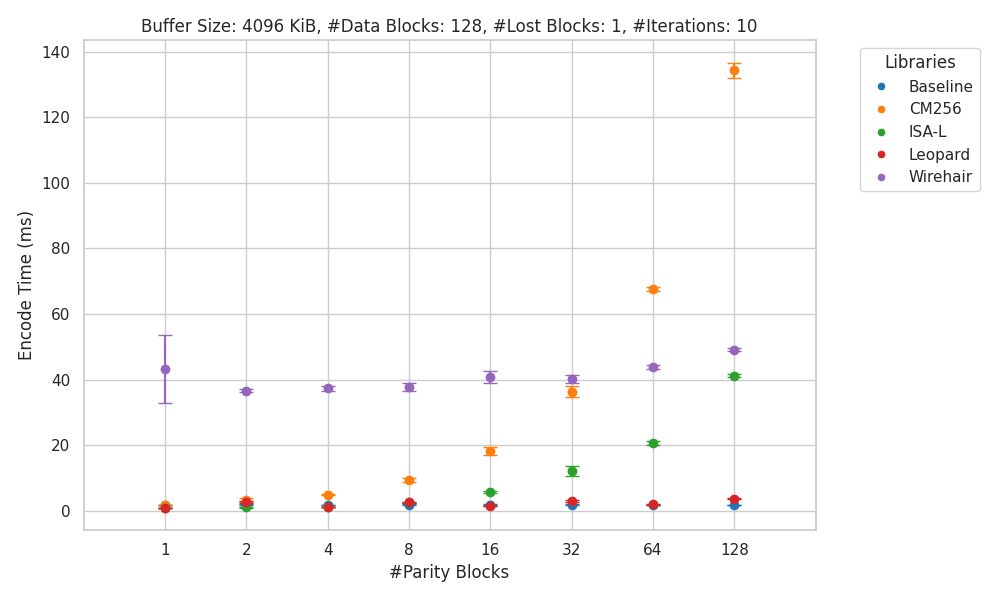
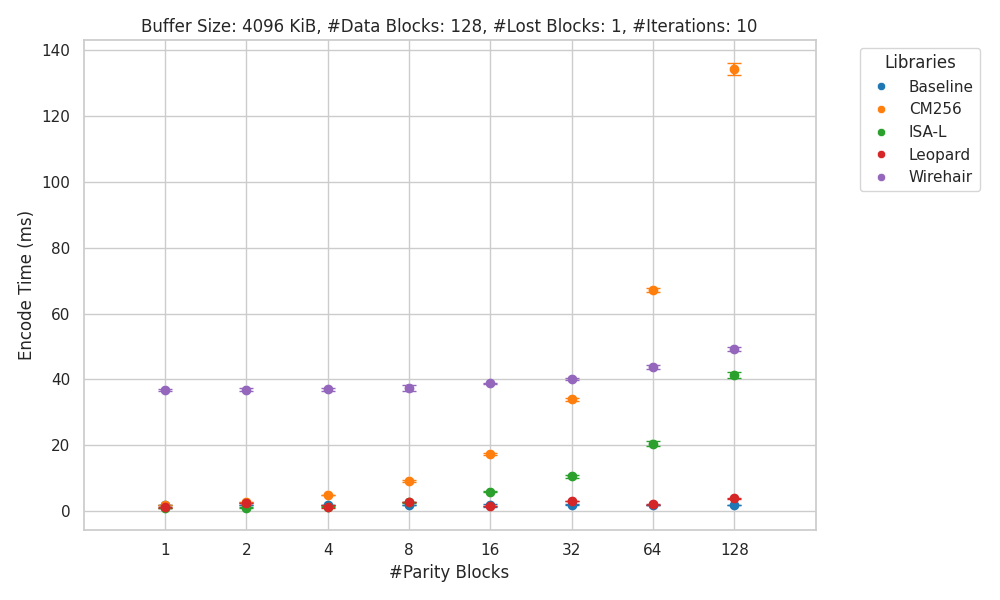
AVX512 encoding done

diff --git a/src/xorbaseline.cpp b/src/xorbaseline.cpp
@@ -10,8 +10,8 @@
 
 
 XORResult xor_encode(
-  uint8_t *data_buffer,
-  uint8_t *parity_buffer,
+  const uint8_t *XOR_RESTRICT data_buffer,
+  uint8_t *XOR_RESTRICT parity_buffer,
   uint32_t block_size,
   uint32_t num_data_blocks,
   uint32_t num_parity_blocks
@@ -41,11 +41,33 @@ XORResult xor_encode(
 
   std::memset(parity_buffer, 0, block_size * num_parity_blocks);
 
-  #if defined(XOR_AVX512)
+  #if defined(TRY_XOR_AVX512)
     // AVX-512 implementation
-  #elif defined(XOR_AVX2)
+    for (unsigned i = 0; i < num_parity_blocks; ++i) {
+      XOR_AVX512 * XOR_RESTRICT p_block512 = reinterpret_cast<XOR_AVX512*>(parity_buffer + i * block_size);
+
+      for (unsigned j = i; j < num_data_blocks; j += num_parity_blocks) {
+        const XOR_AVX512 * XOR_RESTRICT d_block512 = reinterpret_cast<const XOR_AVX512*>(data_buffer + j * block_size);
+        uint32_t block_bytes = block_size;
+
+        while (block_bytes >= 128) {
+          XOR_AVX512 res1 = _mm512_xor_si512(_mm512_loadu_si512(p_block512), _mm512_loadu_si512(d_block512));
+          XOR_AVX512 res2 = _mm512_xor_si512(_mm512_loadu_si512(p_block512 + 1), _mm512_loadu_si512(d_block512 + 1));
+          _mm512_storeu_si512(p_block512, res1);
+          _mm512_storeu_si512(p_block512 + 1, res2);
+          p_block512 += 2, d_block512 += 2;
+          block_bytes -= 128;
+        }
+
+        if (block_bytes > 0) {
+          XOR_AVX512 res = _mm512_xor_si512(_mm512_loadu_si512(p_block512), _mm512_loadu_si512(d_block512));
+          _mm512_storeu_si512(p_block512, res);
+        }
+      }
+    }
+  #elif defined(TRY_XOR_AVX2)
     // AVX2 implementation
-  #elif defined(XOR_AVX)
+  #elif defined(TRY_XOR_AVX)
     // AVX implementation
   #else
     for (unsigned i = 0; i < num_parity_blocks; ++i) {
@@ -64,8 +86,8 @@ XORResult xor_encode(
 
 
 XORResult xor_decode(
-  uint8_t *data_buffer,
-  uint8_t *parity_buffer,
+  uint8_t *XOR_RESTRICT data_buffer,
+  const uint8_t *XOR_RESTRICT parity_buffer,
   uint32_t block_size,
   uint32_t num_data_blocks,
   uint32_t num_parity_blocks,
@@ -114,11 +136,11 @@ XORResult xor_decode(
   }
 
 
-  #if defined(XOR_AVX512)
+  #if defined(TRY_XOR_AVX512)
     // AVX-512 implementation
-  #elif defined(XOR_AVX2)
+  #elif defined(TRY_XOR_AVX2)
     // AVX2 implementation
-  #elif defined(XOR_AVX)
+  #elif defined(TRY_XOR_AVX)
     // AVX implementation
   #else
     for (unsigned i = 0; i < num_data_blocks; ++i) {

diff --git a/include/xorbaseline.h b/include/xorbaseline.h
@@ -14,18 +14,20 @@
  * This header defines the XOR-based erasure encoding and decoding functions,
  * optimized with SIMD intrinsics when available. It supports AVX, AVX2 and AVX-512.
  */
-
+#define __AVX512F__ 1
+#define XOR_RESTRICT __restrict
 
 #if defined(__AVX512F__)
-  #define XOR_AVX512
+  #define TRY_XOR_AVX512
   #include <immintrin.h>
+  #define XOR_AVX512 __m512i
   constexpr uint32_t XOR_BLOCK_SIZE_MULTIPLE = 64;
 #elif defined(__AVX2__)
-  #define XOR_AVX2
+  #define TRY_XOR_AVX2
   #include <immintrin.h>
   constexpr uint32_t XOR_BLOCK_SIZE_MULTIPLE = 32;
 #elif defined(__AVX__)
-  #define XOR_AVX
+  #define TRY_XOR_AVX
   #include <immintrin.h>
   constexpr uint32_t XOR_BLOCK_SIZE_MULTIPLE = 16;
 #else
@@ -74,8 +76,8 @@ enum class XORResult {
  * @return XORResult XORResult indicating success or failure.
  */
 XORResult xor_encode(
-  uint8_t *data_buffer,
-  uint8_t *parity_buffer,
+  const uint8_t *XOR_RESTRICT data_buffer,
+  uint8_t *XOR_RESTRICT parity_buffer,
   uint32_t block_size,
   uint32_t num_data_blocks,
   uint32_t num_parity_blocks
@@ -93,8 +95,8 @@ XORResult xor_encode(
  * @return XORResult XORResult indicating success or failure.
  */
 XORResult xor_decode(
-  uint8_t *data_buffer,
-  uint8_t *parity_buffer,
+  uint8_t *XOR_RESTRICT data_buffer,
+  const uint8_t *XOR_RESTRICT parity_buffer,
   uint32_t block_size,
   uint32_t num_data_blocks,
   uint32_t num_parity_blocks,
